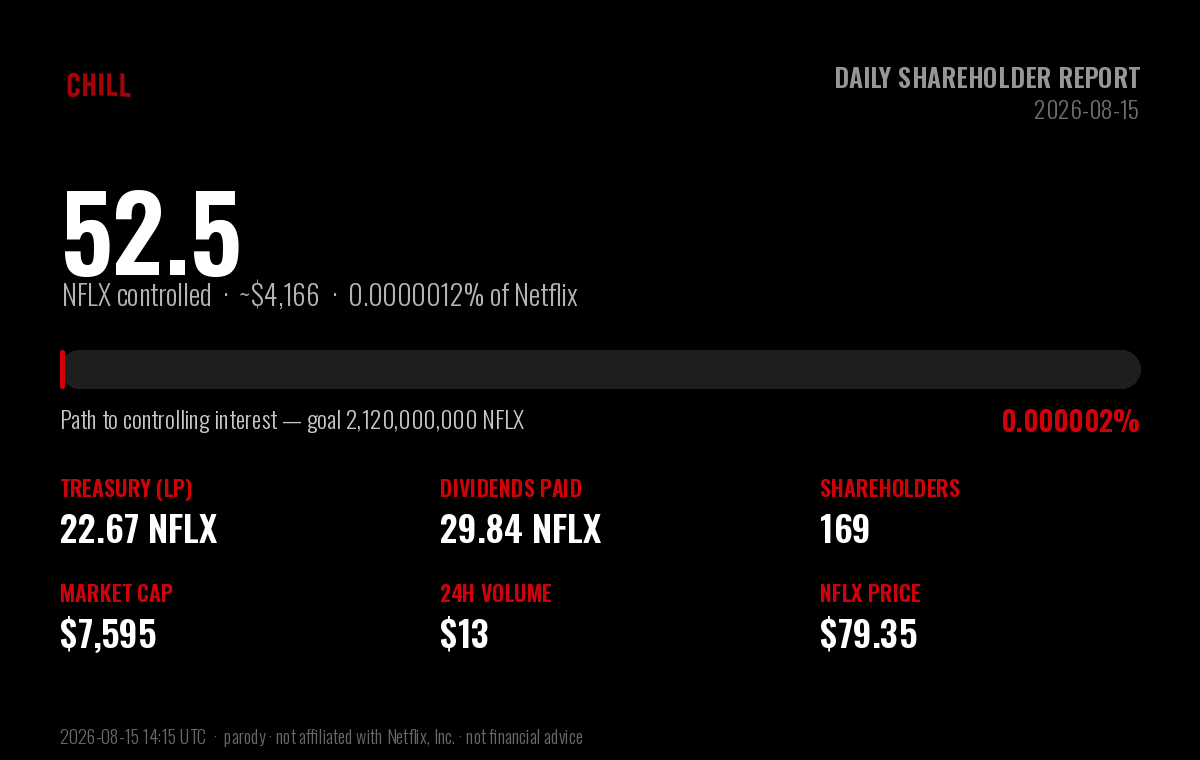
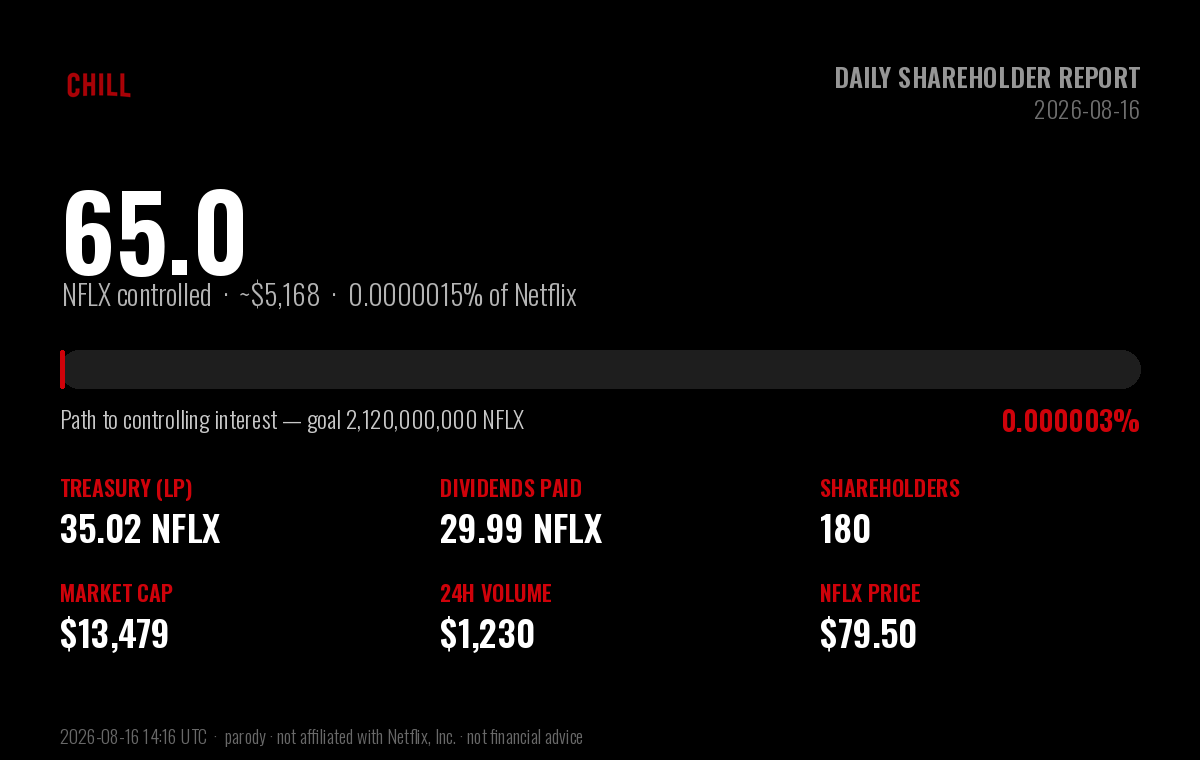
chore: daily $CHILL shareholder report (2026-08-16)

diff --git a/daily-holder-report/README.md b/daily-holder-report/README.md
@@ -1,6 +1,6 @@
 # $CHILL — Daily Shareholder Report
 
-### Netflix and Chill · Report to Shareholders · 2026-08-15
+### Netflix and Chill · Report to Shareholders · 2026-08-16
 
 > **Corporate objective:** acquire a controlling interest in Netflix (NFLX).
 > Netflix has **4,220,000,000** shares outstanding; a majority
@@ -13,53 +13,53 @@
 
 | Metric | Value |
 |---|---|
-| **NFLX under $CHILL control** | **52.50 NFLX** (~$4,166) |
-| Stake in Netflix | 0.000001244% of shares outstanding |
-| Progress to controlling interest | 0.0000025% of 2,120,000,000 |
-| Shares remaining to majority | 2,119,999,947 NFLX |
+| **NFLX under $CHILL control** | **65.01 NFLX** (~$5,168) |
+| Stake in Netflix | 0.000001541% of shares outstanding |
+| Progress to controlling interest | 0.0000031% of 2,120,000,000 |
+| Shares remaining to majority | 2,119,999,935 NFLX |
 
 ## Balance sheet — NFLX holdings
 
 | Holding | NFLX | USD |
 |---|---|---|
-| Treasury (protocol-owned liquidity) | 22.67 | $1,798 |
-| Dividends distributed to shareholders | 29.84 | $2,368 |
-| **Total NFLX controlled** | **52.50** | **$4,166** |
+| Treasury (protocol-owned liquidity) | 35.02 | $2,784 |
+| Dividends distributed to shareholders | 29.99 | $2,384 |
+| **Total NFLX controlled** | **65.01** | **$5,168** |
 
 ## Last 24 hours
 
 | Metric | Value |
 |---|---|
-| Trading volume | 0.16 NFLX (~$13) |
-| Net NFLX accumulated | -0.16 NFLX |
-| Dividends generated | 0.0016 NFLX |
-| Transactions | 3 (0 buys / 3 sells) |
-| $CHILL price change | +1.1% |
+| Trading volume | 15.47 NFLX (~$1,230) |
+| Net NFLX accumulated | 12.35 NFLX |
+| Dividends generated | 0.1547 NFLX |
+| Transactions | 19 (15 buys / 4 sells) |
+| $CHILL price change | +79.0% |
 
 ## Shareholder & market data
 
 | Metric | Value |
 |---|---|
-| Shareholders of record | 169 |
-| Lifetime unique participants | 821 |
+| Shareholders of record | 180 |
+| Lifetime unique participants | 830 |
 | Shares outstanding ($CHILL) | 1,000,000,000 |
-| Market capitalization | $7,595 |
-| $CHILL price | $0.00000760 |
-| NFLX price | $79.35 |
-| Lifetime volume | 2,983.78 NFLX (~$236,750) |
-| Lifetime transactions | 4,160 (2,368 buys / 1,792 sells) |
-| Days since IPO (launch) | 26 |
+| Market capitalization | $13,479 |
+| $CHILL price | $0.00001348 |
+| NFLX price | $79.50 |
+| Lifetime volume | 2,999.25 NFLX (~$238,443) |
+| Lifetime transactions | 4,179 (2,383 buys / 1,796 sells) |
+| Days since IPO (launch) | 27 |
 
 ## Per-share metrics
 
 | Metric | Value |
 |---|---|
-| NFLX backing per 1M $CHILL | 0.052504 NFLX |
-| Dividends per 1M $CHILL | 0.029838 NFLX |
+| NFLX backing per 1M $CHILL | 0.065010 NFLX |
+| Dividends per 1M $CHILL | 0.029992 NFLX |
 
 ---
 
-*Report generated 2026-08-15 14:15 UTC · block 37,178,916 · data via the Sentry-Robinhood
+*Report generated 2026-08-16 14:16 UTC · block 38,040,239 · data via the Sentry-Robinhood
 subgraph and Robinhood Chain explorer.*
 
 **Disclaimer:** $CHILL is an independent, community-driven **parody** token. It is
